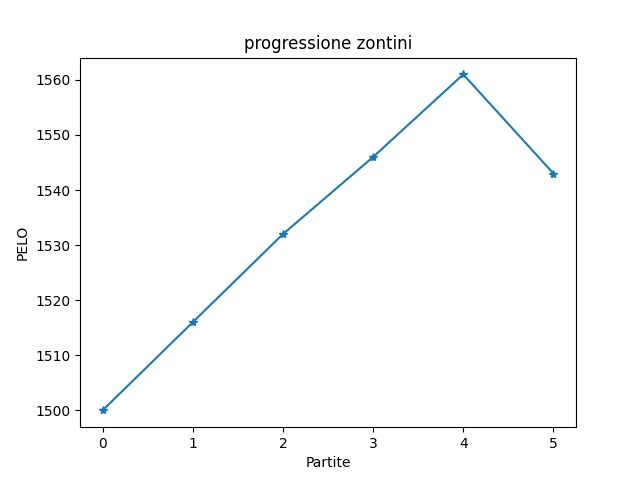
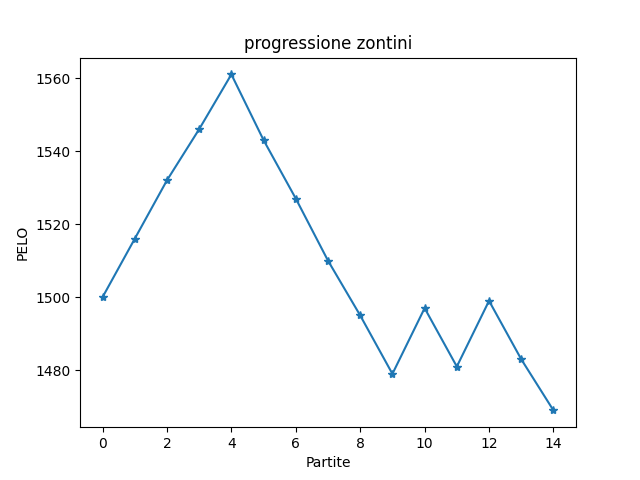
Add files via upload

diff --git a/index.htm b/index.htm
@@ -2,7 +2,7 @@
 <html>
 <link rel='stylesheet' href='style.css'>
 <center><body><br><h1 style='color:blue;'><big>TORNEO ESTATE 2024</big></h1></body><title>Classifica</title>
-<h5>Ultimo aggiornamento: 2024-06-13 alle 14:45:35</h5>
+<h5>Ultimo aggiornamento: 2024-06-14 alle 08:40:33</h5>
 <br><br><h1>Classifica</h1><table border='1' class='dataframe'>
 <thead>
 <tr 'text-align: right;'>
@@ -10,32 +10,32 @@
 <th>PELO</th><th>Statistiche</th></tr>
 </thead>
 <tbody><tr>
-<td>1</td><td>devigili</td>
+<td>1</td><td>caprile</td>
+<td>1559</td><td><b><center><a href = 'statistiche_caprile.htm'>I</a></center></h3></b>
+</tr>
+<tr>
+<td>2</td><td>devigili</td>
 <td>1539</td><td><b><center><a href = 'statistiche_devigili.htm'>I</a></center></h3></b>
 </tr>
 <tr>
-<td>2</td><td>caprile</td>
-<td>1531</td><td><b><center><a href = 'statistiche_caprile.htm'>I</a></center></h3></b>
+<td>3</td><td>castellani</td>
+<td>1502</td><td><b><center><a href = 'statistiche_castellani.htm'>I</a></center></h3></b>
 </tr>
 <tr>
-<td>3</td><td>zontini</td>
-<td>1495</td><td><b><center><a href = 'statistiche_zontini.htm'>I</a></center></h3></b>
-</tr>
-<tr>
-<td>4</td><td>castellani</td>
-<td>1494</td><td><b><center><a href = 'statistiche_castellani.htm'>I</a></center></h3></b>
-</tr>
-<tr>
-<td>5</td><td>tronza</td>
+<td>4</td><td>tronza</td>
 <td>1485</td><td><b><center><a href = 'statistiche_tronza.htm'>I</a></center></h3></b>
 </tr>
 <tr>
-<td>6</td><td>scaglia</td>
+<td>5</td><td>scaglia</td>
 <td>1471</td><td><b><center><a href = 'statistiche_scaglia.htm'>I</a></center></h3></b>
+</tr>
+<tr>
+<td>6</td><td>zontini</td>
+<td>1469</td><td><b><center><a href = 'statistiche_zontini.htm'>I</a></center></h3></b>
 </tr>
 </table>
 <br><br><center><h1><b>Statistiche Globali</b></h1></center><center><table id='statistiche' border='1' class='dataframe'>
-<tr><td><b>Più partite fatte</b></td><td>castellani (10)</td></tr>
-<tr><td><b>Più partite vinte</b></td><td>caprile (5)</td></tr>
+<tr><td><b>Più partite fatte</b></td><td>castellani (20)</td></tr>
+<tr><td><b>Più partite vinte</b></td><td>castellani (10)</td></tr>
 <tr><td><b>Percentuale di vittorie più alta</b></td><td>devigili (75.0%)</td></tr>
 </table><br><br><br><br><br><h2><center><a href='storico_partite.html'>Storico partite</a></center></h2><br><br><br><br></html>

diff --git a/statistiche_castellani.htm b/statistiche_castellani.htm
@@ -5,17 +5,17 @@
 <h1><center>Statistiche: castellani</center></h1>
 <center><img src='castellani.png'></center>
 </head><br><br><center><table id='statistiche' border='1' class='dataframe'>
-<tr><td><b>Partite fatte</b></td><td>10</td></tr>
-<tr><td><b>Partite vinte</b></td><td>5 (50.0%)</td></tr>
+<tr><td><b>Partite fatte</b></td><td>20</td></tr>
+<tr><td><b>Partite vinte</b></td><td>10 (50.0%)</td></tr>
 <tr><td><b>Record PELO</b></td><td>1545</td></tr>
 <tr><td><b>Best streak</b></td><td>3</td></tr>
 <tr><td><b>Current streak</b></td><td>0</td></tr>
-<tr><td><b>Punti fatti</b></td><td>81</td></tr>
-<tr><td><b>Punti subiti</b></td><td>97</td></tr>
+<tr><td><b>Punti fatti</b></td><td>175</td></tr>
+<tr><td><b>Punti subiti</b></td><td>194</td></tr>
 </table></center></body><br><br><center><table id='statistiche' border='1' class='dataframe'>
-<br><h2>Statistiche contro gli altri giocatori</h2><tr><td><b>devigili</b></td><td><b>0.0% (<span style='color:green'>0</span> / <span style='color:red'>2</span>  / 2)</b></td></tr>
-<tr><td><b>caprile</b></td><td><b>57.1% (<span style='color:green'>4</span> / <span style='color:red'>3</span>  / 7)</b></td></tr>
-<tr><td><b>zontini</b></td><td><b>100.0% (<span style='color:green'>1</span> / <span style='color:red'>0</span>  / 1)</b></td></tr>
+<br><h2>Statistiche contro gli altri giocatori</h2><tr><td><b>caprile</b></td><td><b>45.4% (<span style='color:green'>5</span> / <span style='color:red'>6</span>  / 11)</b></td></tr>
+<tr><td><b>devigili</b></td><td><b>0.0% (<span style='color:green'>0</span> / <span style='color:red'>2</span>  / 2)</b></td></tr>
 <tr><td><b>tronza</b></td><td><b>N/A% (<span style='color:green'>0</span> / <span style='color:red'>0</span>  / 0)</b></td></tr>
 <tr><td><b>scaglia</b></td><td><b>N/A% (<span style='color:green'>0</span> / <span style='color:red'>0</span>  / 0)</b></td></tr>
+<tr><td><b>zontini</b></td><td><b>71.4% (<span style='color:green'>5</span> / <span style='color:red'>2</span>  / 7)</b></td></tr>
 <br><br><br></html>

diff --git a/statistiche_zontini.htm b/statistiche_zontini.htm
@@ -5,17 +5,17 @@
 <h1><center>Statistiche: zontini</center></h1>
 <center><img src='zontini.png'></center>
 </head><br><br><center><table id='statistiche' border='1' class='dataframe'>
-<tr><td><b>Partite fatte</b></td><td>8</td></tr>
-<tr><td><b>Partite vinte</b></td><td>4 (50.0%)</td></tr>
+<tr><td><b>Partite fatte</b></td><td>14</td></tr>
+<tr><td><b>Partite vinte</b></td><td>6 (42.8%)</td></tr>
 <tr><td><b>Record PELO</b></td><td>1561</td></tr>
 <tr><td><b>Best streak</b></td><td>4</td></tr>
 <tr><td><b>Current streak</b></td><td>0</td></tr>
-<tr><td><b>Punti fatti</b></td><td>71</td></tr>
-<tr><td><b>Punti subiti</b></td><td>68</td></tr>
+<tr><td><b>Punti fatti</b></td><td>126</td></tr>
+<tr><td><b>Punti subiti</b></td><td>129</td></tr>
 </table></center></body><br><br><center><table id='statistiche' border='1' class='dataframe'>
-<br><h2>Statistiche contro gli altri giocatori</h2><tr><td><b>devigili</b></td><td><b>50.0% (<span style='color:green'>1</span> / <span style='color:red'>1</span>  / 2)</b></td></tr>
-<tr><td><b>caprile</b></td><td><b>0.0% (<span style='color:green'>0</span> / <span style='color:red'>2</span>  / 2)</b></td></tr>
-<tr><td><b>castellani</b></td><td><b>0.0% (<span style='color:green'>0</span> / <span style='color:red'>1</span>  / 1)</b></td></tr>
+<br><h2>Statistiche contro gli altri giocatori</h2><tr><td><b>caprile</b></td><td><b>0.0% (<span style='color:green'>0</span> / <span style='color:red'>2</span>  / 2)</b></td></tr>
+<tr><td><b>devigili</b></td><td><b>50.0% (<span style='color:green'>1</span> / <span style='color:red'>1</span>  / 2)</b></td></tr>
+<tr><td><b>castellani</b></td><td><b>28.5% (<span style='color:green'>2</span> / <span style='color:red'>5</span>  / 7)</b></td></tr>
 <tr><td><b>tronza</b></td><td><b>100.0% (<span style='color:green'>1</span> / <span style='color:red'>0</span>  / 1)</b></td></tr>
 <tr><td><b>scaglia</b></td><td><b>100.0% (<span style='color:green'>2</span> / <span style='color:red'>0</span>  / 2)</b></td></tr>
 <br><br><br></html>

diff --git a/statistiche_caprile.htm b/statistiche_caprile.htm
@@ -5,17 +5,17 @@
 <h1><center>Statistiche: caprile</center></h1>
 <center><img src='caprile.png'></center>
 </head><br><br><center><table id='statistiche' border='1' class='dataframe'>
-<tr><td><b>Partite fatte</b></td><td>9</td></tr>
-<tr><td><b>Partite vinte</b></td><td>5 (55.5%)</td></tr>
-<tr><td><b>Record PELO</b></td><td>1531</td></tr>
-<tr><td><b>Best streak</b></td><td>3</td></tr>
-<tr><td><b>Current streak</b></td><td>3</td></tr>
-<tr><td><b>Punti fatti</b></td><td>88</td></tr>
-<tr><td><b>Punti subiti</b></td><td>74</td></tr>
+<tr><td><b>Partite fatte</b></td><td>13</td></tr>
+<tr><td><b>Partite vinte</b></td><td>8 (61.5%)</td></tr>
+<tr><td><b>Record PELO</b></td><td>1562</td></tr>
+<tr><td><b>Best streak</b></td><td>5</td></tr>
+<tr><td><b>Current streak</b></td><td>1</td></tr>
+<tr><td><b>Punti fatti</b></td><td>130</td></tr>
+<tr><td><b>Punti subiti</b></td><td>107</td></tr>
 </table></center></body><br><br><center><table id='statistiche' border='1' class='dataframe'>
 <br><h2>Statistiche contro gli altri giocatori</h2><tr><td><b>devigili</b></td><td><b>N/A% (<span style='color:green'>0</span> / <span style='color:red'>0</span>  / 0)</b></td></tr>
-<tr><td><b>zontini</b></td><td><b>100.0% (<span style='color:green'>2</span> / <span style='color:red'>0</span>  / 2)</b></td></tr>
-<tr><td><b>castellani</b></td><td><b>42.8% (<span style='color:green'>3</span> / <span style='color:red'>4</span>  / 7)</b></td></tr>
+<tr><td><b>castellani</b></td><td><b>54.5% (<span style='color:green'>6</span> / <span style='color:red'>5</span>  / 11)</b></td></tr>
 <tr><td><b>tronza</b></td><td><b>N/A% (<span style='color:green'>0</span> / <span style='color:red'>0</span>  / 0)</b></td></tr>
 <tr><td><b>scaglia</b></td><td><b>N/A% (<span style='color:green'>0</span> / <span style='color:red'>0</span>  / 0)</b></td></tr>
+<tr><td><b>zontini</b></td><td><b>100.0% (<span style='color:green'>2</span> / <span style='color:red'>0</span>  / 2)</b></td></tr>
 <br><br><br></html>

diff --git a/statistiche_scaglia.htm b/statistiche_scaglia.htm
@@ -13,9 +13,9 @@
 <tr><td><b>Punti fatti</b></td><td>10</td></tr>
 <tr><td><b>Punti subiti</b></td><td>22</td></tr>
 </table></center></body><br><br><center><table id='statistiche' border='1' class='dataframe'>
-<br><h2>Statistiche contro gli altri giocatori</h2><tr><td><b>devigili</b></td><td><b>N/A% (<span style='color:green'>0</span> / <span style='color:red'>0</span>  / 0)</b></td></tr>
-<tr><td><b>caprile</b></td><td><b>N/A% (<span style='color:green'>0</span> / <span style='color:red'>0</span>  / 0)</b></td></tr>
-<tr><td><b>zontini</b></td><td><b>0.0% (<span style='color:green'>0</span> / <span style='color:red'>2</span>  / 2)</b></td></tr>
+<br><h2>Statistiche contro gli altri giocatori</h2><tr><td><b>caprile</b></td><td><b>N/A% (<span style='color:green'>0</span> / <span style='color:red'>0</span>  / 0)</b></td></tr>
+<tr><td><b>devigili</b></td><td><b>N/A% (<span style='color:green'>0</span> / <span style='color:red'>0</span>  / 0)</b></td></tr>
 <tr><td><b>castellani</b></td><td><b>N/A% (<span style='color:green'>0</span> / <span style='color:red'>0</span>  / 0)</b></td></tr>
 <tr><td><b>tronza</b></td><td><b>N/A% (<span style='color:green'>0</span> / <span style='color:red'>0</span>  / 0)</b></td></tr>
+<tr><td><b>zontini</b></td><td><b>0.0% (<span style='color:green'>0</span> / <span style='color:red'>2</span>  / 2)</b></td></tr>
 <br><br><br></html>

diff --git a/statistiche_tronza.htm b/statistiche_tronza.htm
@@ -13,9 +13,9 @@
 <tr><td><b>Punti fatti</b></td><td>5</td></tr>
 <tr><td><b>Punti subiti</b></td><td>11</td></tr>
 </table></center></body><br><br><center><table id='statistiche' border='1' class='dataframe'>
-<br><h2>Statistiche contro gli altri giocatori</h2><tr><td><b>devigili</b></td><td><b>N/A% (<span style='color:green'>0</span> / <span style='color:red'>0</span>  / 0)</b></td></tr>
-<tr><td><b>caprile</b></td><td><b>N/A% (<span style='color:green'>0</span> / <span style='color:red'>0</span>  / 0)</b></td></tr>
-<tr><td><b>zontini</b></td><td><b>0.0% (<span style='color:green'>0</span> / <span style='color:red'>1</span>  / 1)</b></td></tr>
+<br><h2>Statistiche contro gli altri giocatori</h2><tr><td><b>caprile</b></td><td><b>N/A% (<span style='color:green'>0</span> / <span style='color:red'>0</span>  / 0)</b></td></tr>
+<tr><td><b>devigili</b></td><td><b>N/A% (<span style='color:green'>0</span> / <span style='color:red'>0</span>  / 0)</b></td></tr>
 <tr><td><b>castellani</b></td><td><b>N/A% (<span style='color:green'>0</span> / <span style='color:red'>0</span>  / 0)</b></td></tr>
 <tr><td><b>scaglia</b></td><td><b>N/A% (<span style='color:green'>0</span> / <span style='color:red'>0</span>  / 0)</b></td></tr>
+<tr><td><b>zontini</b></td><td><b>0.0% (<span style='color:green'>0</span> / <span style='color:red'>1</span>  / 1)</b></td></tr>
 <br><br><br></html>

diff --git a/storico_partite.html b/storico_partite.html
@@ -73,5 +73,45 @@
 <td>17</td><td>caprile</td>
 <td>zontini</td><td><b><center>11-8</center></h3></b>
 </tr>
+<tr>
+<td>18</td><td>castellani</td>
+<td>zontini</td><td><b><center>11-9</center></h3></b>
+</tr>
+<tr>
+<td>19</td><td>castellani</td>
+<td>zontini</td><td><b><center>10-12</center></h3></b>
+</tr>
+<tr>
+<td>20</td><td>castellani</td>
+<td>zontini</td><td><b><center>11-8</center></h3></b>
+</tr>
+<tr>
+<td>21</td><td>castellani</td>
+<td>zontini</td><td><b><center>7-11</center></h3></b>
+</tr>
+<tr>
+<td>22</td><td>castellani</td>
+<td>zontini</td><td><b><center>11-9</center></h3></b>
+</tr>
+<tr>
+<td>23</td><td>castellani</td>
+<td>zontini</td><td><b><center>11-6</center></h3></b>
+</tr>
+<tr>
+<td>24</td><td>caprile</td>
+<td>castellani</td><td><b><center>11-4</center></h3></b>
+</tr>
+<tr>
+<td>25</td><td>caprile</td>
+<td>castellani</td><td><b><center>13-11</center></h3></b>
+</tr>
+<tr>
+<td>26</td><td>caprile</td>
+<td>castellani</td><td><b><center>7-11</center></h3></b>
+</tr>
+<tr>
+<td>27</td><td>caprile</td>
+<td>castellani</td><td><b><center>11-7</center></h3></b>
+</tr>
 </table></center>
 </html>

diff --git a/statistiche_devigili.htm b/statistiche_devigili.htm
@@ -14,8 +14,8 @@
 <tr><td><b>Punti subiti</b></td><td>25</td></tr>
 </table></center></body><br><br><center><table id='statistiche' border='1' class='dataframe'>
 <br><h2>Statistiche contro gli altri giocatori</h2><tr><td><b>caprile</b></td><td><b>N/A% (<span style='color:green'>0</span> / <span style='color:red'>0</span>  / 0)</b></td></tr>
-<tr><td><b>zontini</b></td><td><b>50.0% (<span style='color:green'>1</span> / <span style='color:red'>1</span>  / 2)</b></td></tr>
 <tr><td><b>castellani</b></td><td><b>100.0% (<span style='color:green'>2</span> / <span style='color:red'>0</span>  / 2)</b></td></tr>
 <tr><td><b>tronza</b></td><td><b>N/A% (<span style='color:green'>0</span> / <span style='color:red'>0</span>  / 0)</b></td></tr>
 <tr><td><b>scaglia</b></td><td><b>N/A% (<span style='color:green'>0</span> / <span style='color:red'>0</span>  / 0)</b></td></tr>
+<tr><td><b>zontini</b></td><td><b>50.0% (<span style='color:green'>1</span> / <span style='color:red'>1</span>  / 2)</b></td></tr>
 <br><br><br></html>
